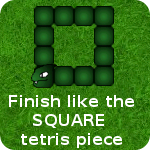
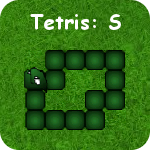
Some achievement arts added

diff --git a/MrMunch/src/com/androidgames/mrmunch/Settings.java b/MrMunch/src/com/androidgames/mrmunch/Settings.java
@@ -18,16 +18,16 @@ public class Settings {
 	public static SparseArray<Achievement> achievementsList;
 	static{
 		achievementsList = new SparseArray<Achievement>();
-    	achievementsList.append(1, new Achievement("Begginer", "Got 100 points", Assets.achievement0));
-    	achievementsList.append(2, new Achievement("Intermediate", "Got 500 points", Assets.achievement0));
-    	achievementsList.append(3, new Achievement("Expert", "Got 1000 points", Assets.achievement0));
-    	achievementsList.append(4, new Achievement("Master", "Got 1500 points", Assets.achievement0));
-    	achievementsList.append(5, new Achievement("Tetris Square", "Finish like the Square Tetris piece", Assets.achievement0));
-    	achievementsList.append(6, new Achievement("Tetris Stick", "Finish like the Stick Tetris piece", Assets.achievement0));
-    	achievementsList.append(7, new Achievement("Tetris L", "Finish like the L Tetris piece", Assets.achievement0));
-    	achievementsList.append(8, new Achievement("Tetris S", "Finish like the S Tetris piece", Assets.achievement0));
-    	achievementsList.append(9, new Achievement("Tetris T", "Finish like the T Tetris piece", Assets.achievement0));
-    	achievementsList.append(10,new Achievement("Pursuer", "Follow your tail for 20 steps", Assets.achievement0));
+    	achievementsList.append(1, new Achievement("Begginer", "Got 100 points", Assets.achievement5));
+    	achievementsList.append(2, new Achievement("Intermediate", "Got 500 points", Assets.achievement5));
+    	achievementsList.append(3, new Achievement("Expert", "Got 1000 points", Assets.achievement5));
+    	achievementsList.append(4, new Achievement("Master", "Got 1500 points", Assets.achievement5));
+    	achievementsList.append(5, new Achievement("Tetris Square", "Finish like the Square Tetris piece", Assets.achievement5));
+    	achievementsList.append(6, new Achievement("Tetris Line", "Finish like the Line Tetris piece", Assets.achievement6));
+    	achievementsList.append(7, new Achievement("Tetris L", "Finish like the L Tetris piece", Assets.achievement7));
+    	achievementsList.append(8, new Achievement("Tetris S", "Finish like the S Tetris piece", Assets.achievement8));
+    	achievementsList.append(9, new Achievement("Tetris T", "Finish like the T Tetris piece", Assets.achievement5));
+    	achievementsList.append(10,new Achievement("Pursuer", "Follow your tail for 20 steps", Assets.achievement5));
 	}
 
     public static void load(FileIO files) {

diff --git a/MrMunch/src/com/androidgames/mrmunch/LoadingScreen.java b/MrMunch/src/com/androidgames/mrmunch/LoadingScreen.java
@@ -35,7 +35,10 @@ public class LoadingScreen extends Screen {
         Assets.fruit3 = g.newPixmap("fruit3.png", PixmapFormat.ARGB4444);
         Assets.candy = g.newPixmap("candy.png", PixmapFormat.ARGB4444);
         Assets.rectangle = g.newPixmap("rectangle.png", PixmapFormat.ARGB4444);
-        Assets.achievement0 = g.newPixmap("tetris_S_achievement.png", PixmapFormat.ARGB4444);
+        Assets.achievement5 = g.newPixmap("tetris_square_achievement.png", PixmapFormat.ARGB4444);
+        Assets.achievement6 = g.newPixmap("tetris_line_achievement.png", PixmapFormat.ARGB4444);
+        Assets.achievement7 = g.newPixmap("tetris_L_achievement.png", PixmapFormat.ARGB4444);
+        Assets.achievement8 = g.newPixmap("tetris_S_achievement.png", PixmapFormat.ARGB4444);
         Assets.click = game.getAudio().newSound("click.ogg");
         Assets.eat = game.getAudio().newSound("eat.ogg");
         Assets.bitten = game.getAudio().newSound("bitten.ogg");

diff --git a/MrMunch/src/com/androidgames/mrmunch/Assets.java b/MrMunch/src/com/androidgames/mrmunch/Assets.java
@@ -66,7 +66,10 @@ public class Assets {
     public static Pixmap candy;  
     public static Pixmap rectangle;
     
-    public static Pixmap achievement0;
+    public static Pixmap achievement5;
+    public static Pixmap achievement6;
+    public static Pixmap achievement7;
+    public static Pixmap achievement8;
     public static int ACHIEVEMENT_ICON_WIDTH = 150;
     public static int ACHIEVEMENT_ICON_HEIGHT = 150;
 
